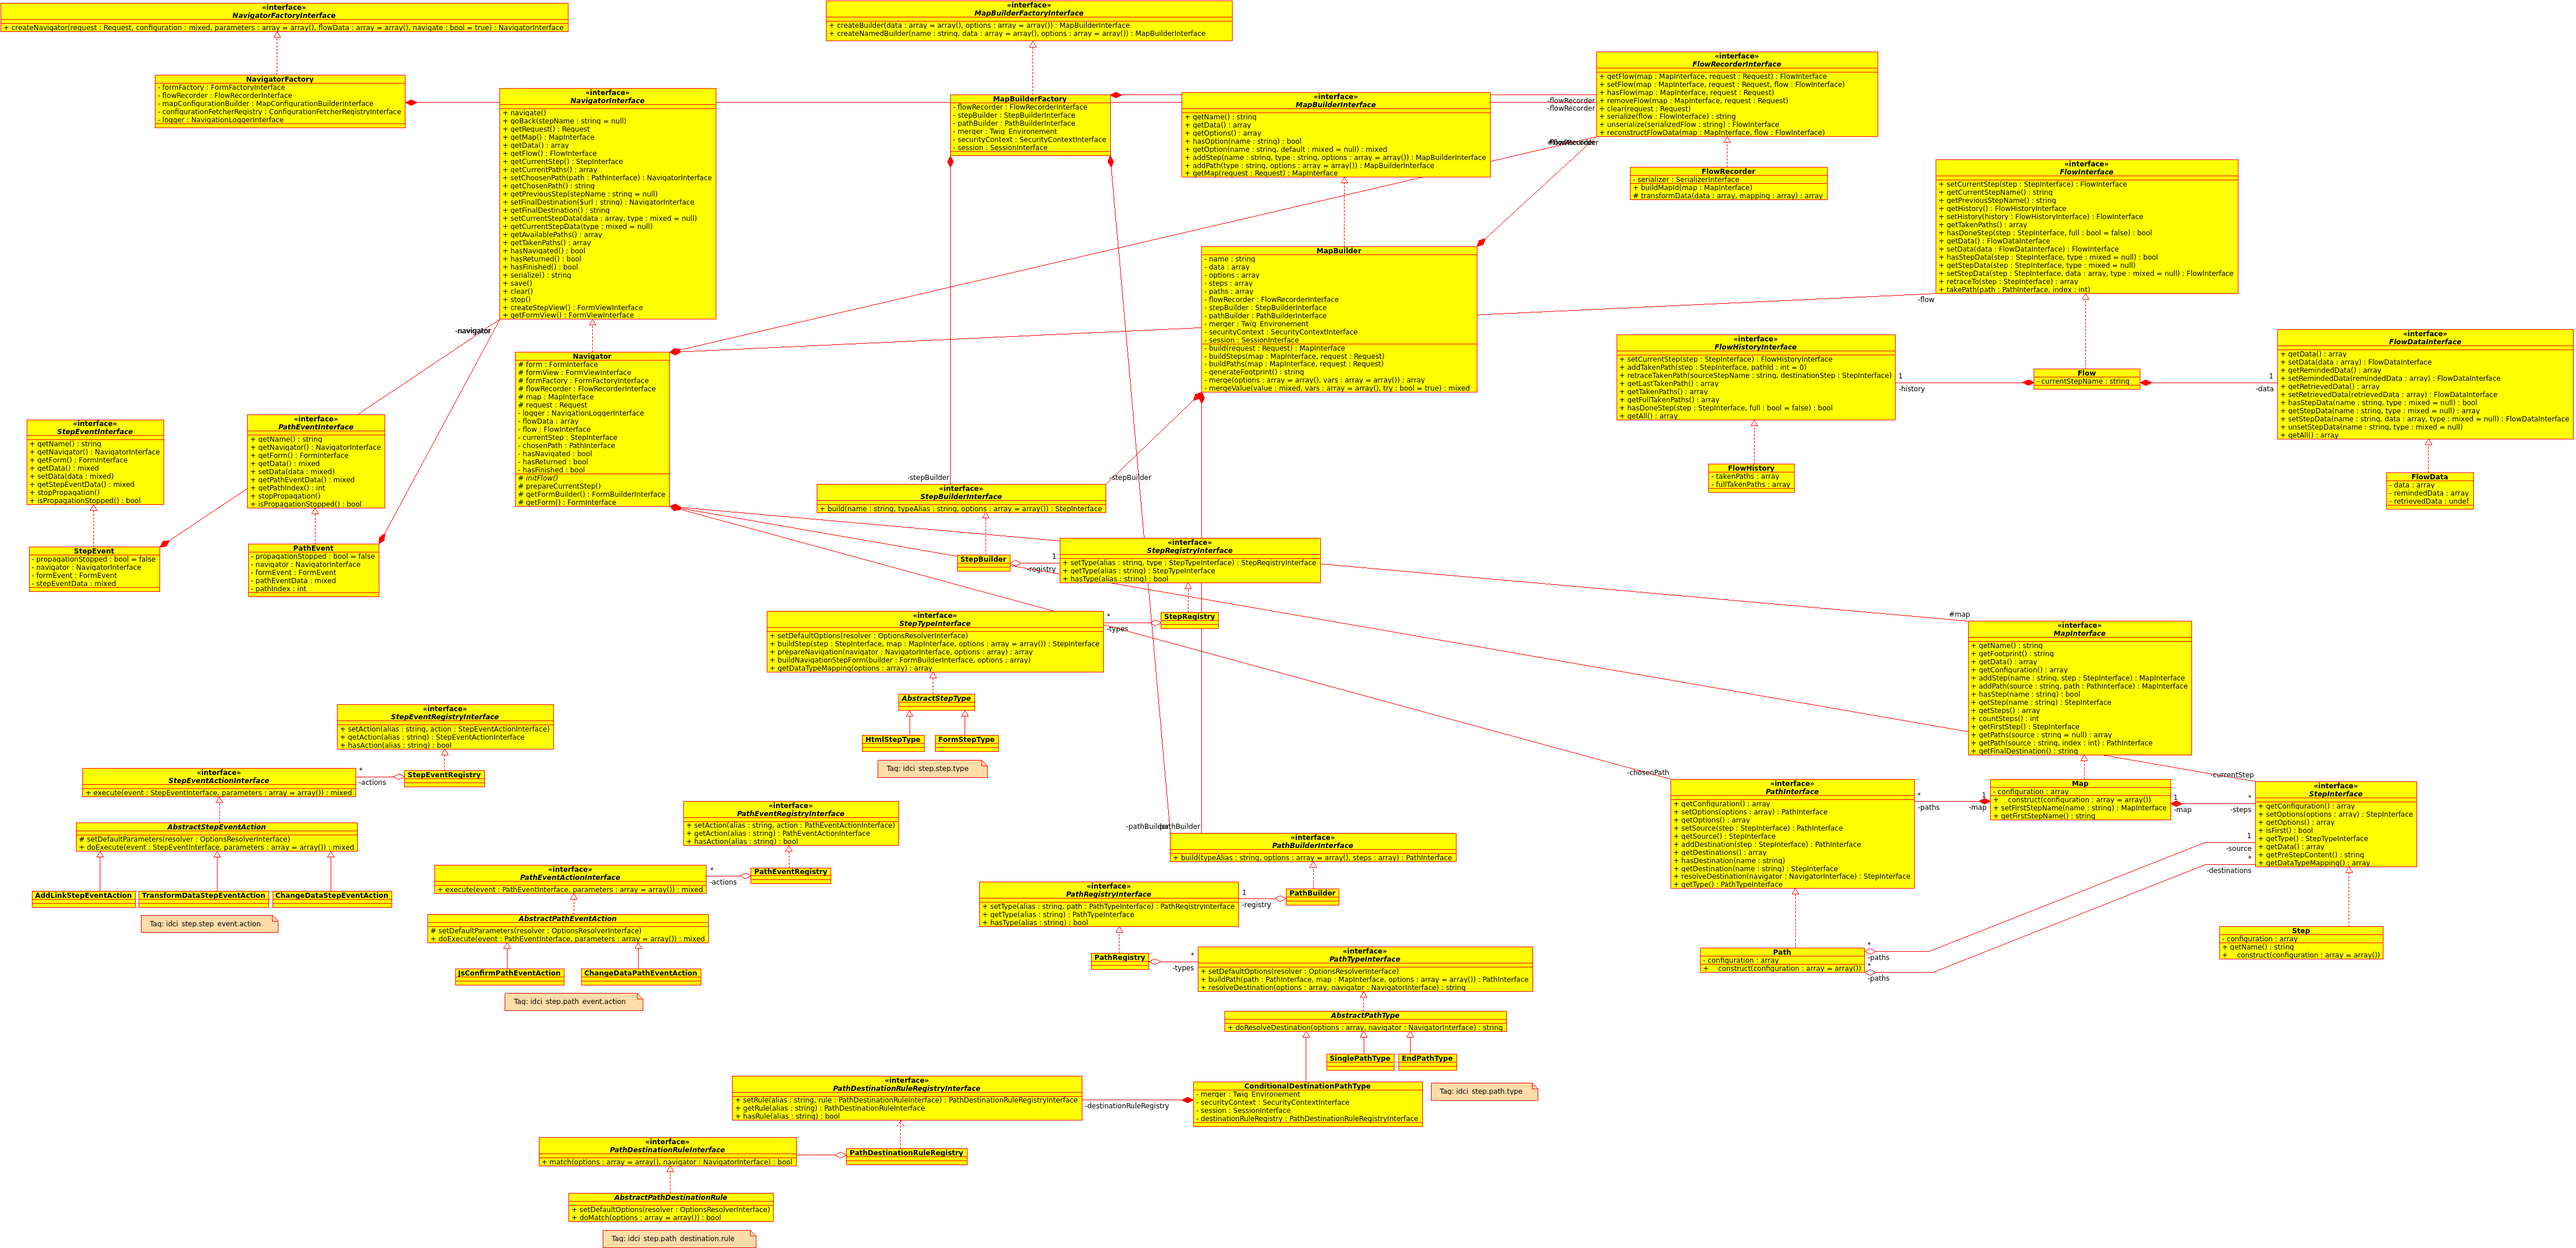
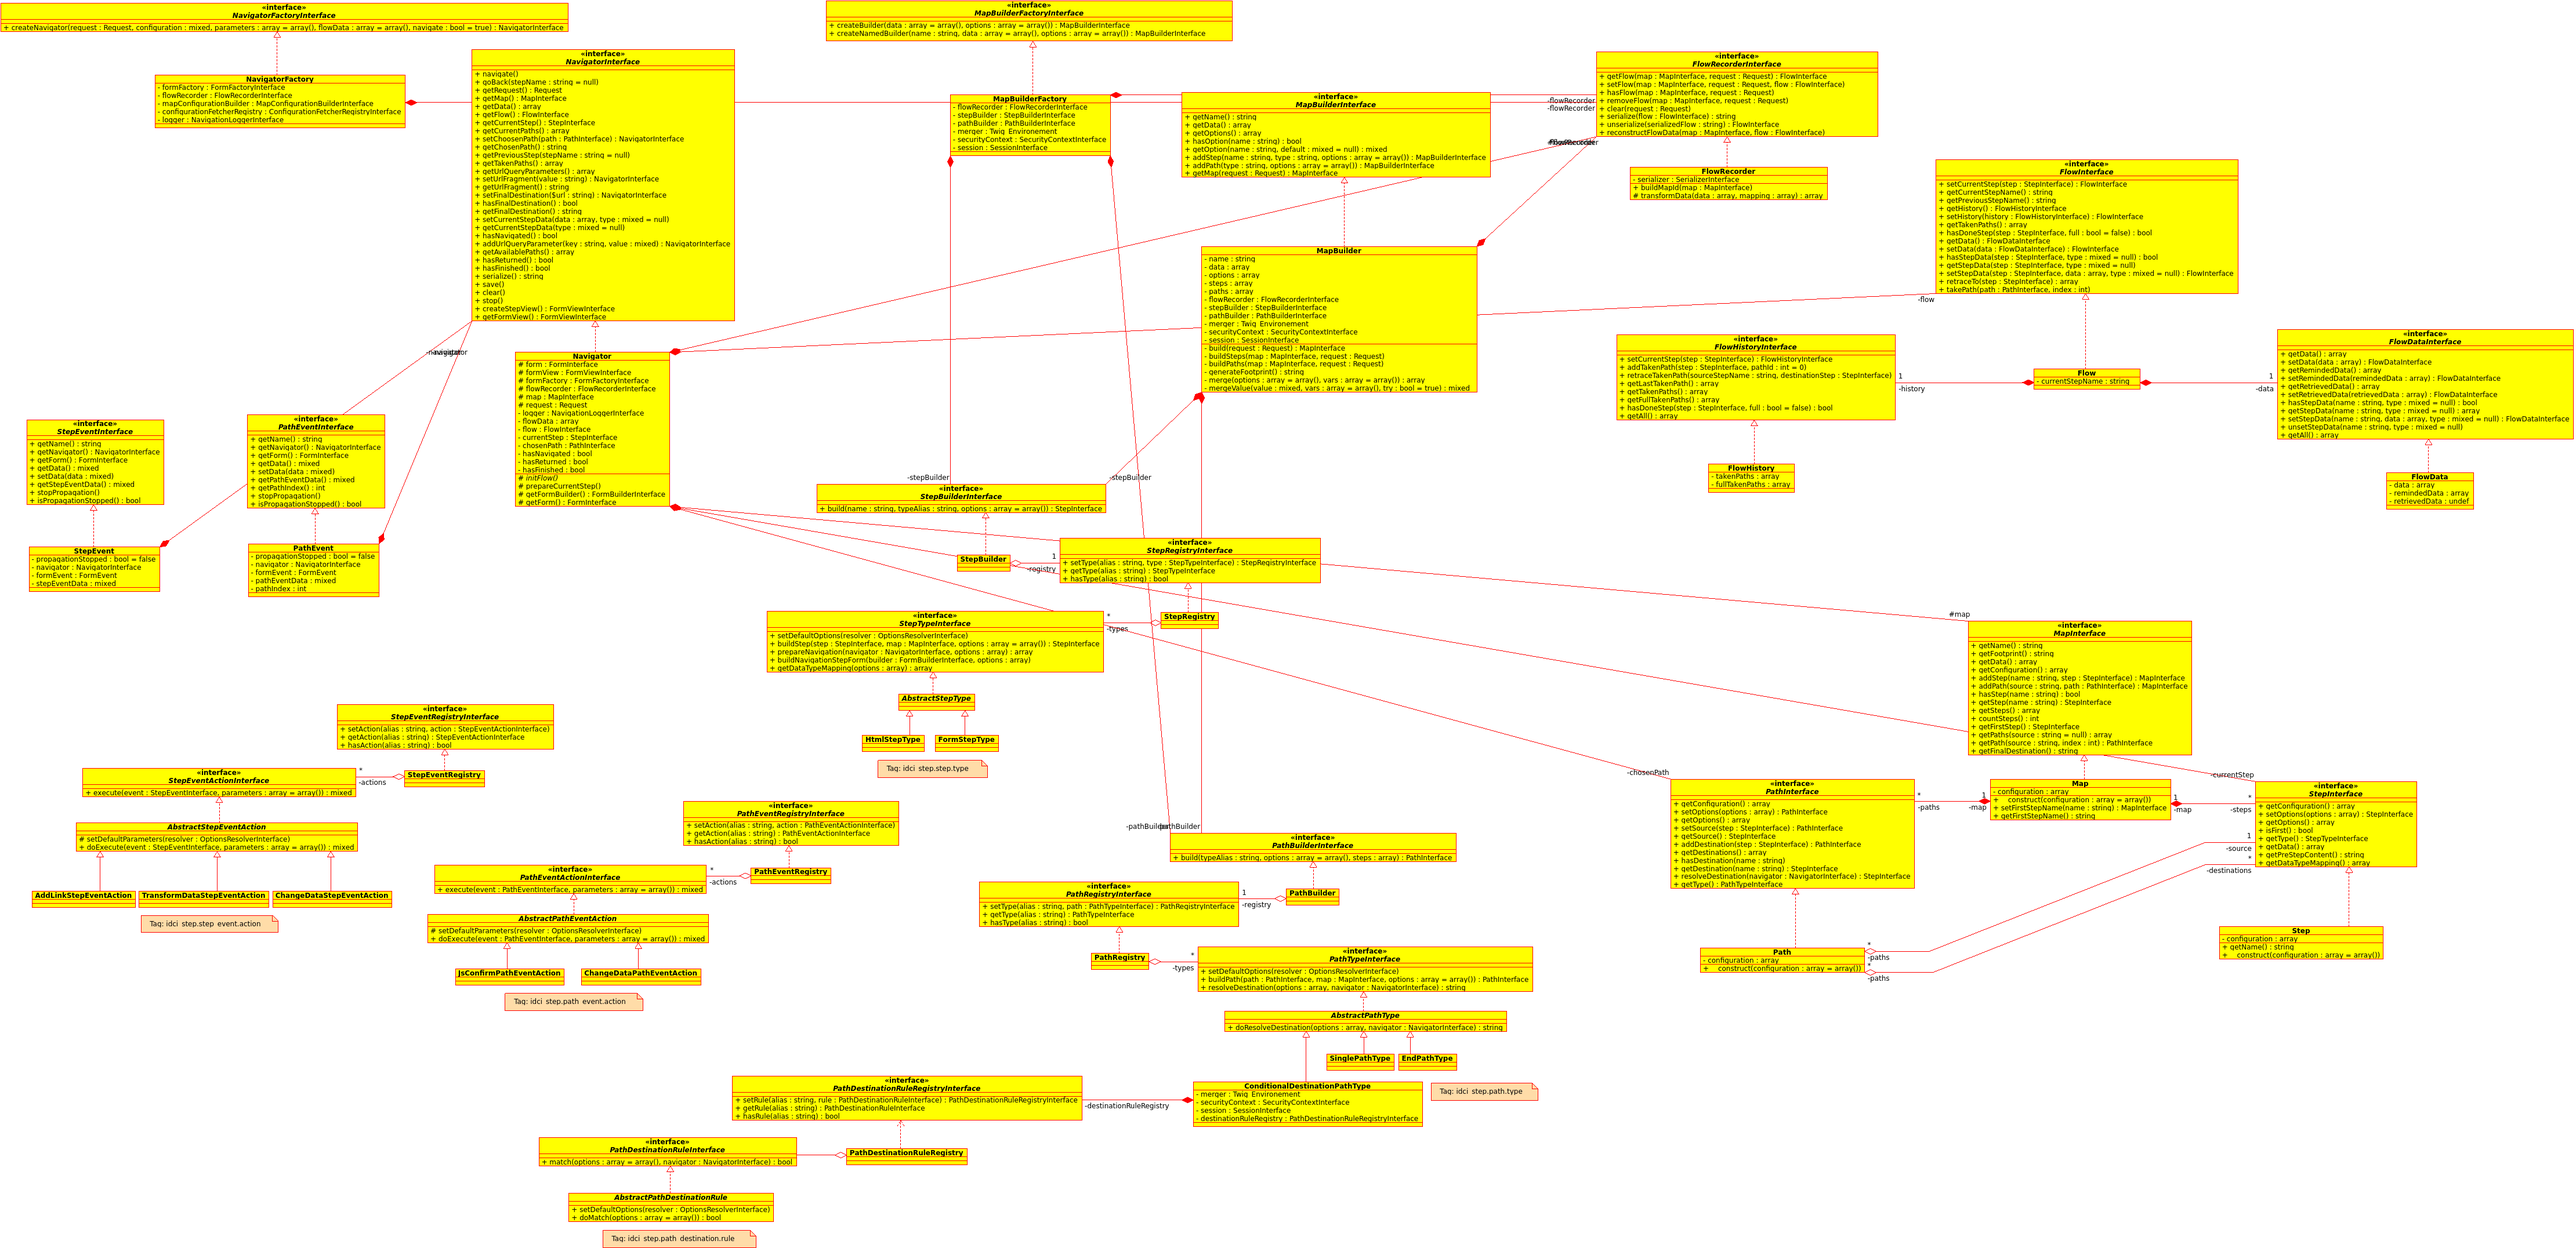
Add new map parameters and add Navigator parameters that allow to add url query parameters during the navigation

Changed region(s): [[0.1554, 0.0311, 0.3107, 0.2801]]

diff --git a/Navigation/Navigator.php b/Navigation/Navigator.php
@@ -13,6 +13,7 @@ use Symfony\Component\Form\FormInterface;
 use Symfony\Component\Form\FormFactoryInterface;
 use IDCI\Bundle\StepBundle\Map\MapInterface;
 use IDCI\Bundle\StepBundle\Path\PathInterface;
+use IDCI\Bundle\StepBundle\Step\StepInterface;
 use IDCI\Bundle\StepBundle\Flow\FlowRecorderInterface;
 use IDCI\Bundle\StepBundle\Flow\Flow;
 use IDCI\Bundle\StepBundle\Flow\FlowData;
@@ -81,6 +82,16 @@ class Navigator implements NavigatorInterface
     protected $chosenPath;
 
     /**
+     * @var array
+     */
+    protected $urlQueryParameters;
+
+    /**
+     * @var string
+     */
+    protected $urlFragment;
+
+    /**
      * @var string
      */
     protected $finalDestination;
@@ -119,20 +130,22 @@ class Navigator implements NavigatorInterface
         array                     $data = array()
     )
     {
-        $this->form             = null;
-        $this->formView         = null;
-        $this->formFactory      = $formFactory;
-        $this->flowRecorder     = $flowRecorder;
-        $this->map              = $map;
-        $this->request          = $request;
-        $this->logger           = $logger;
-        $this->flow             = null;
-        $this->currentStep      = null;
-        $this->chosenPath       = null;
-        $this->finalDestination = null;
-        $this->hasNavigated     = false;
-        $this->hasReturned      = false;
-        $this->hasFinished      = false;
+        $this->form               = null;
+        $this->formView           = null;
+        $this->formFactory        = $formFactory;
+        $this->flowRecorder       = $flowRecorder;
+        $this->map                = $map;
+        $this->request            = $request;
+        $this->logger             = $logger;
+        $this->flow               = null;
+        $this->currentStep        = null;
+        $this->chosenPath         = null;
+        $this->urlQueryParameters = array();
+        $this->urlFragment        = null;
+        $this->finalDestination   = null;
+        $this->hasNavigated       = false;
+        $this->hasReturned        = false;
+        $this->hasFinished        = false;
 
         $this->data             = array(
             'remindedData'  => isset($data['data']) ? $data['data'] : array(),
@@ -240,6 +253,21 @@ class Navigator implements NavigatorInterface
     }
 
     /**
+     * Setup the navigation url.
+     *
+     * @param StepInterface $step The step.
+     */
+    protected function setupNavigationUrl(StepInterface $step)
+    {
+        // Add Step information following to the map configuration.
+        $mapConfiguration = $this->getMap()->getConfiguration();
+
+        if ($mapConfiguration['options']['display_step_in_url']) {
+            $this->addUrlQueryParameter('step', $step->getName());
+        }
+    }
+
+    /**
      * {@inheritdoc}
      */
     public function navigate()
@@ -280,6 +308,8 @@ class Navigator implements NavigatorInterface
                 } else {
                     $this->hasNavigated = true;
                     $this->getFlow()->setCurrentStep($destinationStep);
+
+                    $this->setupNavigationUrl($destinationStep);
                 }
 
                 // Reset the current form.
@@ -309,6 +339,7 @@ class Navigator implements NavigatorInterface
         $this->getFlow()->retraceTo($destinationStep);
         $this->hasReturned = true;
         $this->save();
+        $this->setupNavigationUrl($destinationStep);
 
         // Reset the current form.
         $this->form = null;
@@ -407,11 +438,55 @@ class Navigator implements NavigatorInterface
     /**
      * {@inheritdoc}
      */
+    public function addUrlQueryParameter($key, $value = null)
+    {
+        $this->urlQueryParameters[$key] = $value;
+
+        return $this;
+    }
+
+    /**
+     * {@inheritdoc}
+     */
+    public function getUrlQueryParameters()
+    {
+        return $this->urlQueryParameters;
+    }
+
+    /**
+     * {@inheritdoc}
+     */
+    public function setUrlFragment($value)
+    {
+        $this->urlFragment = substr($value, 0, 1) === '#' ? $value : '#'.$value;
+
+        return $this;
+    }
+
+    /**
+     * {@inheritdoc}
+     */
+    public function getUrlFragment()
+    {
+        return $this->urlFragment;
+    }
+
+    /**
+     * {@inheritdoc}
+     */
     public function setFinalDestination($url)
     {
         $this->finalDestination = $url;
 
         return $this;
+    }
+
+    /**
+     * {@inheritdoc}
+     */
+    public function hasFinalDestination()
+    {
+        return null !== $this->finalDestination;
     }
 
     /**

diff --git a/Tests/Navigation/NavigatorTest.php b/Tests/Navigation/NavigatorTest.php
@@ -158,4 +158,56 @@ class NavigatorTest extends \PHPUnit_Framework_TestCase
             $this->navigator->getData()
         );
     }
+
+    public function testUrlQueryParameters()
+    {
+        $this->assertEquals(array(), $this->navigator->getUrlQueryParameters());
+
+        $this->navigator
+            ->addUrlQueryParameter('key1', 'value1')
+            ->addUrlQueryParameter('key2', 'value2')
+            ->addUrlQueryParameter('key3', 'value3')
+        ;
+        $this->assertEquals(
+            array(
+                'key1' => 'value1',
+                'key2' => 'value2',
+                'key3' => 'value3',
+            ),
+            $this->navigator->getUrlQueryParameters()
+        );
+
+        $this->navigator->addUrlQueryParameter('key1', 'value1-1');
+        $this->assertEquals(
+            array(
+                'key1' => 'value1-1',
+                'key2' => 'value2',
+                'key3' => 'value3',
+            ),
+            $this->navigator->getUrlQueryParameters()
+        );
+    }
+
+    public function testUrlFragment()
+    {
+        $this->assertEquals(null, $this->navigator->getUrlFragment());
+
+        $this->navigator->setUrlFragment('dummyfragment');
+        $this->assertEquals(
+            '#dummyfragment',
+            $this->navigator->getUrlFragment()
+        );
+
+        $this->navigator->setUrlFragment('#dummyfragment');
+        $this->assertEquals(
+            '#dummyfragment',
+            $this->navigator->getUrlFragment()
+        );
+
+        $this->navigator->setUrlFragment('#dummy#fragment');
+        $this->assertEquals(
+            '#dummy#fragment',
+            $this->navigator->getUrlFragment()
+        );
+    }
 }

diff --git a/Navigation/NavigatorInterface.php b/Navigation/NavigatorInterface.php
@@ -96,6 +96,39 @@ interface NavigatorInterface
     public function getPreviousStep($stepName = null);
 
     /**
+     * Add URL query parameter.
+     *
+     * @param string $key   The URL query parameter key.
+     * @param mixed  $value The URL query parameter value.
+     *
+     * @return NavigatorInterface
+     */
+    public function addUrlQueryParameter($key, $value = null);
+
+    /**
+     * Returns the URL query parameters.
+     *
+     * @return array
+     */
+    public function getUrlQueryParameters();
+
+    /**
+     * Set the URL fragment.
+     *
+     * @param string $value The URL fragment.
+     *
+     * @return NavigatorInterface
+     */
+    public function setUrlFragment($value);
+
+    /**
+     * Returns the URL fragment.
+     *
+     * @return string.
+     */
+    public function getUrlFragment();
+
+    /**
      * Set the final destination.
      *
      * @param string $url The final destination url.
@@ -103,6 +136,13 @@ interface NavigatorInterface
      * @return NavigatorInterface
      */
     public function setFinalDestination($url);
+
+    /**
+     * Returns true if the navigator has a final destination.
+     *
+     * @return boolean
+     */
+    public function hasFinalDestination();
 
     /**
      * Returns the final destination (as URL).

diff --git a/Map/MapBuilder.php b/Map/MapBuilder.php
@@ -124,9 +124,13 @@ class MapBuilder implements MapBuilderInterface
         $resolver = new OptionsResolver();
         $resolver
             ->setDefaults(array(
-                'browsing'          => 'linear',
-                'first_step_name'   => null,
-                'final_destination' => null,
+                'browsing'            => 'linear',
+                'first_step_name'     => null,
+                'final_destination'   => null,
+                'display_step_in_url' => false,
+            ))
+            ->setAllowedTypes(array(
+                'display_step_in_url' => array('bool'),
             ))
             ->setAllowedValues(array(
                 'browsing' => array('linear', 'free'),
